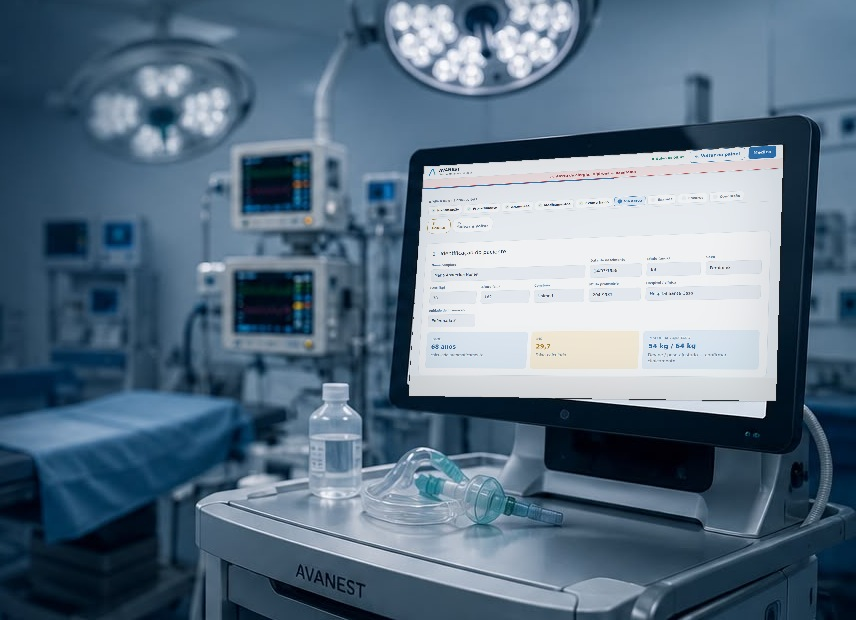
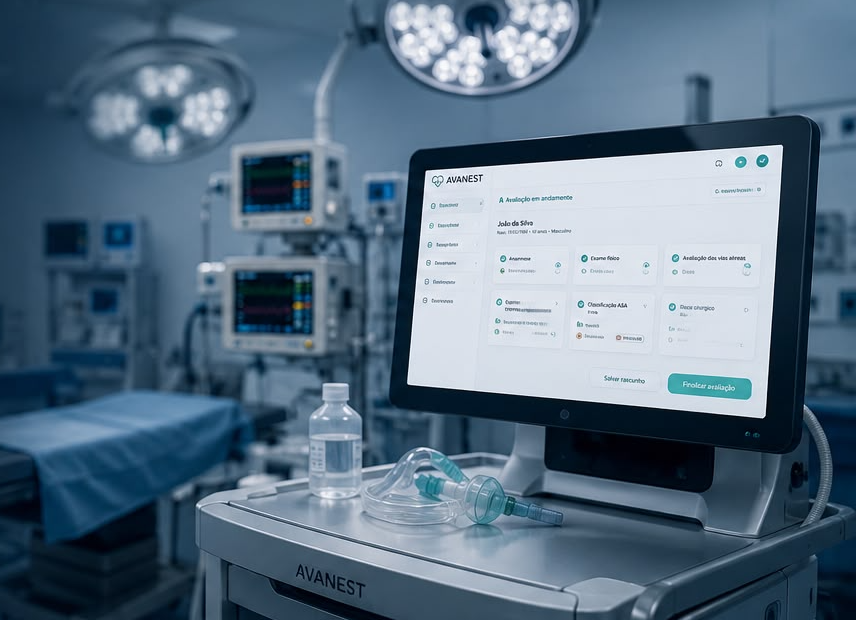
Volta a página inicial ao que era
A pedido do Gustavo. Três coisas desfeitas, exatamente como estavam:

  a foto do hero, com a interface de demonstração que havia nela;
  o texto — "PREPARO PRÉ-OPERATÓRIO MAIS SEGURO", o título do
  pré-operatório e os três cartões da recepção ao anestesiologista;
  as regras de CSS do hero que eu tinha mexido hoje.

Fica de pé só o que ele pediu à parte e confirmou: a linha de baixo do
logo, que continua "gestão em anestesiologia". Se ele quiser essa de volta
também, é uma linha.

Claude-Session: https://claude.ai/code/session_01XN8JbAjVvDg9Ui5cdQAJNL

diff --git a/app/page.tsx b/app/page.tsx
@@ -28,13 +28,13 @@ export default function HomePage() {
       <section className="avnHero">
         <div className="avnOverlay" />
         <div className="avnHeroContent">
-          <p className="avnEyebrow">O DIA INTEIRO DO ANESTESIOLOGISTA</p>
+          <p className="avnEyebrow">PREPARO PRÉ-OPERATÓRIO MAIS SEGURO</p>
           <h1>
-            Escala, avaliação, produção e recebimento em um sistema só.
+            O AVANEST organiza todo o pré-operatório antes do paciente chegar ao centro cirúrgico.
           </h1>
           <p className="avnLead">
-            Do plantão que você assume à cobrança que entra no fim do mês — com a
-            avaliação pré-anestésica, a ficha e o termo saindo prontos no meio do caminho.
+            Da recepção ao anestesiologista, centralize avaliação pré-anestésica, exames,
+            documentos e orientações em um único sistema.
           </p>
           <div className="avnActions">
             <a className="avnPrimary" href={whatsappUrl} target="_blank" rel="noreferrer">
@@ -47,27 +47,23 @@ export default function HomePage() {
 
       <section className="avnInfo" id="como-funciona">
         <p>UMA VISÃO CLARA DO SISTEMA</p>
-        <h2>Veja como o AVANEST organiza o dia.</h2>
+        <h2>Veja como o AVANEST organiza o pré-operatório.</h2>
         <div className="avnGrid">
           {[
-            /* Os três cartões seguem o DIA, e não o menu do sistema: é assim
-               que o colega reconhece o próprio trabalho no texto. A escala vem
-               antes porque é por ela que a maioria entra — o plantão é o que
-               já existe, com ou sem sistema. */
             [
               "01",
-              "A escala de todos os hospitais num calendário só",
-              "Cada lugar onde você está escalado, o valor combinado de cada turno, e a troca com um colega registrada — com dono, data e resposta.",
+              "A recepção opera a fila sem ver conteúdo clínico",
+              "Minimização de acesso a dado sensível, conforme a LGPD, com separação de permissões por perfil.",
             ],
             [
               "02",
-              "A avaliação pré-anestésica antes de o paciente entrar",
-              "Nove etapas salvas enquanto você digita, cálculos e escores automáticos, e ficha, termo e orientações prontos para imprimir com o logo do hospital.",
+              "O anestesiologista recebe o caso organizado antes da cirurgia",
+              "Nove etapas clínicas, cálculos automáticos, salvamento contínuo e visão clara dos pacientes do dia.",
             ],
             [
               "03",
-              "A produção do dia vira o que você tem a receber",
-              "Paciente, convênio e cirurgia numa linha. O sistema acompanha o que foi faturado, o que foi recebido, e avisa o que ficou para trás.",
+              "Ficha, termo e orientações saem prontos",
+              "Documentação pré-anestésica, termo de consentimento e orientações ao paciente em um fluxo mais seguro e padronizado.",
             ],
           ].map(([n, title, text]) => (
             <article key={n}><b>{n}</b><h3>{title}</h3><p>{text}</p></article>

diff --git a/app/globals.css b/app/globals.css
@@ -554,12 +554,7 @@ button:disabled{cursor:not-allowed}
 .avnHeroContent{padding-top:clamp(95px,12vh,135px)}
 @media(max-width:1100px){
   .avnHero{background-position:65% center;background-size:cover}
-  /* Mais escuro do que era, e por mais tempo. Abaixo de 1100px a foto é
-     ampliada para cobrir a área, e o monitor sobe para trás justamente da
-     faixa onde o texto está. Com o escurecimento antigo (55% de opacidade no
-     fim) as letras caíam em cima da tela do monitor e as duas coisas ficavam
-     ilegíveis — nem se lia a frase, nem se via o sistema. */
-  .avnOverlay{background:linear-gradient(90deg,#041626fb 0%,#041626f2 54%,#041626c4 76%,#04162666 100%)}
+  .avnOverlay{background:linear-gradient(90deg,#041626f9 0%,#041626e8 55%,#0416267d 100%)}
 }
 @media(max-width:680px){
   .avnHero{min-height:calc(100svh - 88px);background-position:68% center}
@@ -822,29 +817,8 @@ button:disabled{cursor:not-allowed}
 /* Capa: com a chamada mais curta, o título ganha corpo menor e largura limitada
    para não avançar sobre a imagem do produto à direita. */
 .avnHero h1{font-size:clamp(34px,3.9vw,54px);max-width:760px;margin:20px 0 24px}
-/* O `max-width:none` que estava aqui soltava o título para a largura inteira, e
-   era ele que punha a frase por cima do monitor da foto entre 680 e 900px. O
-   tamanho da letra continua caindo; o limite de largura fica com a regra da
-   faixa do tablet, logo acima. Abaixo de 680px o desenho é de uma coluna só e
-   o limite não vale — por isso ele mora numa consulta com piso, e não aqui. */
-@media(max-width:900px){.avnHero h1{font-size:36px}}
+@media(max-width:900px){.avnHero h1{font-size:36px;max-width:none}}
 @media(max-width:560px){.avnHero h1{font-size:31px}}
-/* A faixa do tablet deitado e do notebook pequeno.
-   Só o escurecimento não resolve: sem limite de largura o título atravessa a
-   tela inteira e passa por cima do monitor de qualquer jeito. O texto para
-   antes de chegar nele, e a foto volta a ter o que mostrar. Acima de 1100px
-   isto já existe, e abaixo de 680px o desenho é de uma coluna só — nas duas
-   pontas a regra não é necessária.
-
-   E fica DEPOIS da regra solta acima, que define max-width:760px sem
-   consulta de mídia: consulta de mídia não acrescenta especificidade, então
-   entre duas regras iguais vence a que vem por último no arquivo. Posta
-   antes, esta aqui não valia nada. */
-@media(min-width:681px) and (max-width:1100px){
-  .avnHero h1{max-width:min(620px,70%)}
-  .avnLead{max-width:min(560px,66%)}
-}
-
 
 /* Primeiro acesso: escolha entre anestesiologista individual, criar grupo ou
    aceitar convite; e o crachá da organização no topo do painel. */
